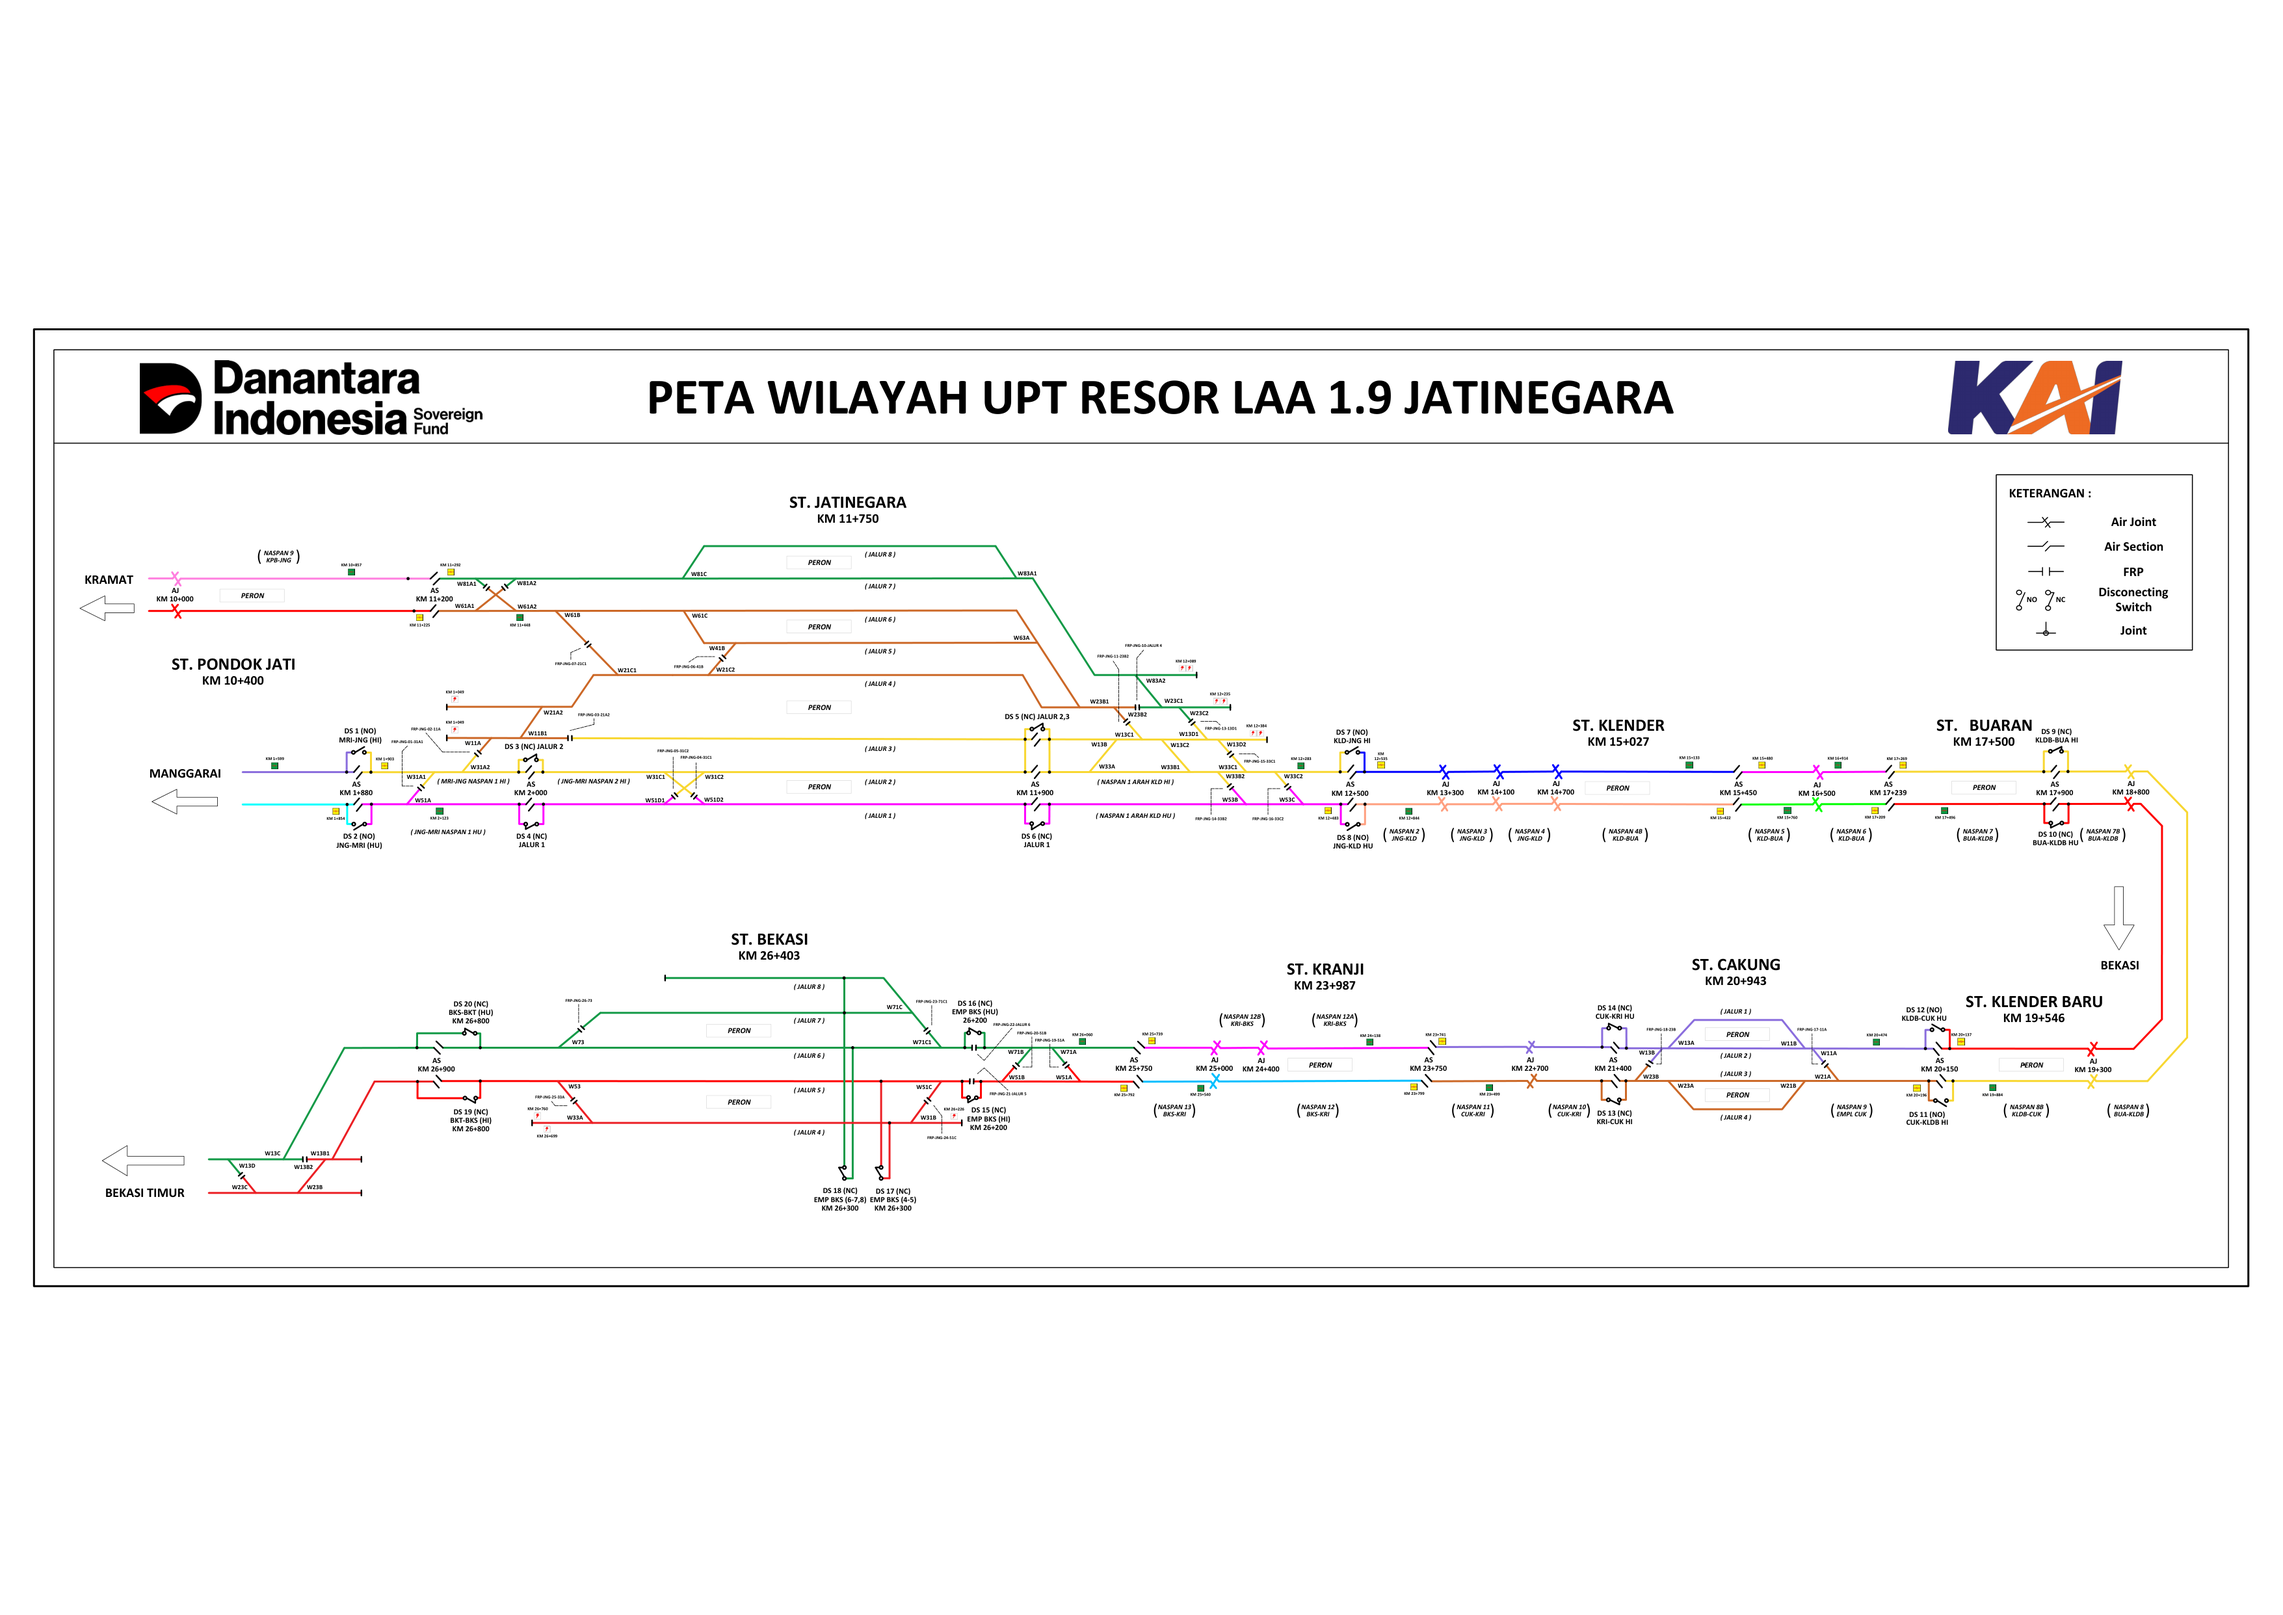
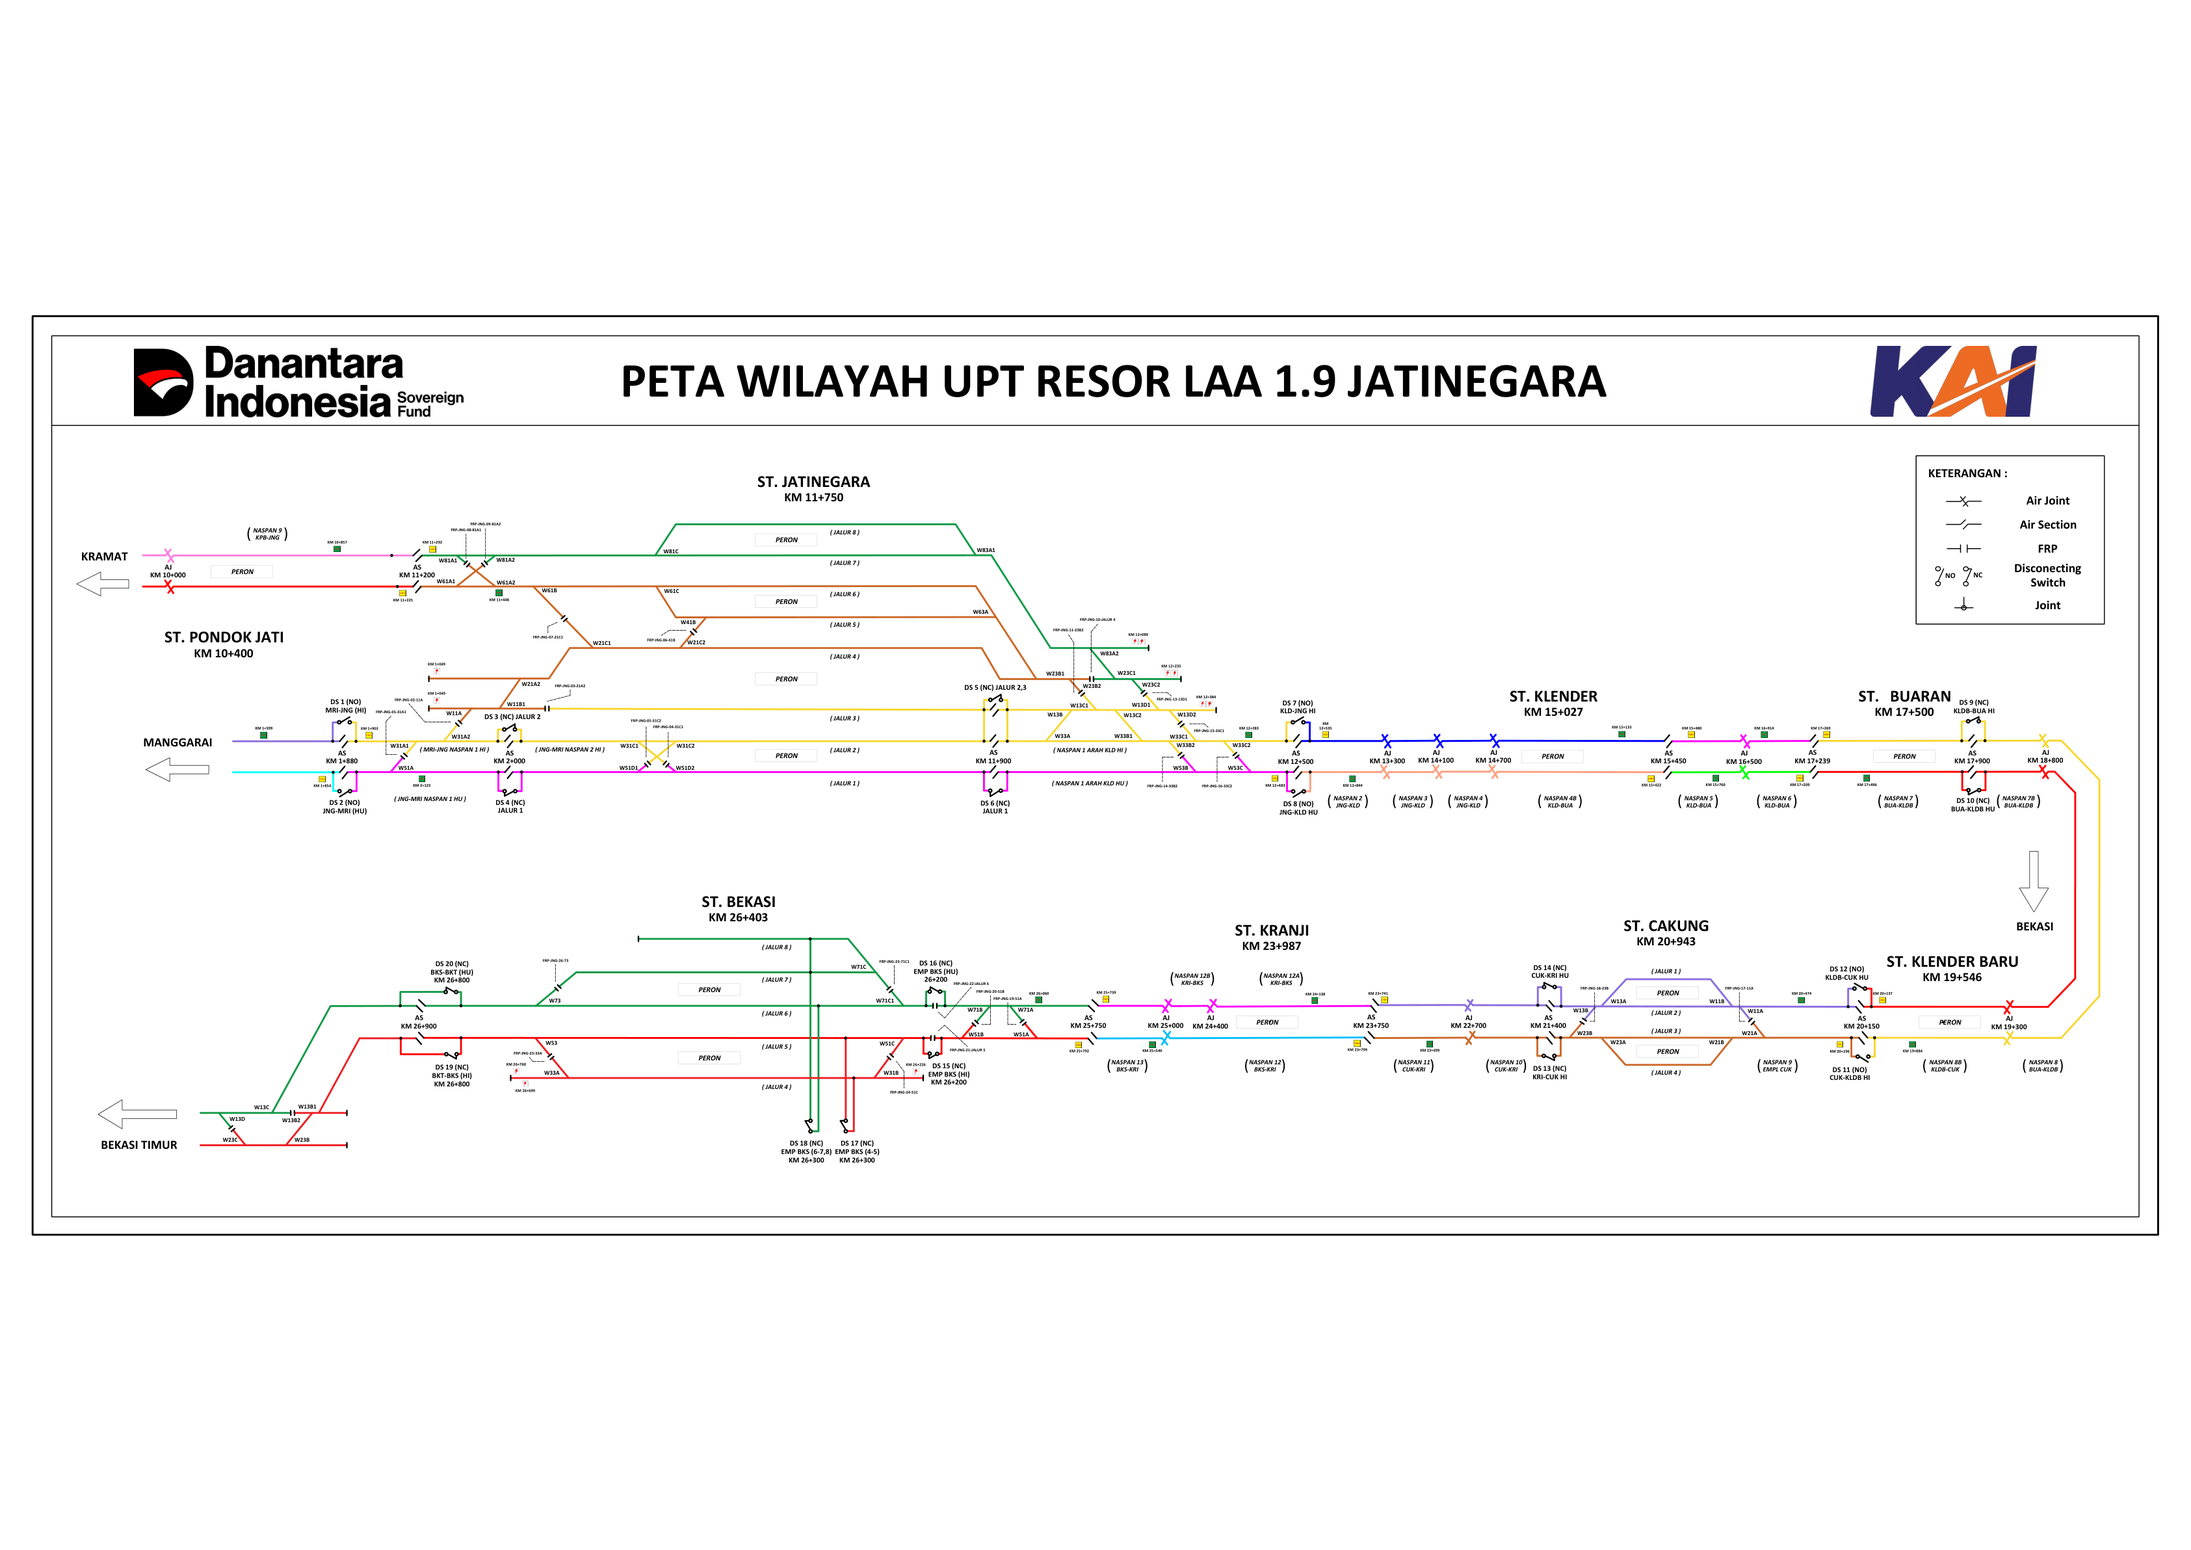
feat: incorporate AutoCAD revision adding FRP-JNG-08-81A1 & FRP-JNG-09-81A2 on W81A/W61A crossover and regenerated background map

diff --git a/frontend/src/components/SchematicViewer.jsx b/frontend/src/components/SchematicViewer.jsx
@@ -1308,6 +1308,8 @@ export default function SchematicViewer({
       d: 'M 654.3 370.4 L 668.2 381.6',
       color: '#139a47',
       isCrossing: true,
+      startDivider: { type: 'WESEL', label: 'Wesel W81A1', km: 'KM 11+292' },
+      endDivider: { type: 'FRP', label: '( Section Insulator (FRP-JNG-08-81A1) )', km: 'KM 11+350' },
     },
     {
       id: 'wesel_w81a2_713',
@@ -1318,6 +1320,8 @@ export default function SchematicViewer({
       d: 'M 713.7 370.4 L 699.5 381.7',
       color: '#139a47',
       isCrossing: true,
+      startDivider: { type: 'WESEL', label: 'Wesel W81A2', km: 'KM 11+448' },
+      endDivider: { type: 'FRP', label: '( Section Insulator (FRP-JNG-09-81A2) )', km: 'KM 11+350' },
     },
     {
       id: 'wesel_w61a2_672',
@@ -1328,6 +1332,8 @@ export default function SchematicViewer({
       d: 'M 672.4 384.9 L 713.7 417.8',
       color: '#cc6827',
       isCrossing: true,
+      startDivider: { type: 'FRP', label: '( Section Insulator (FRP-JNG-08-81A1) )', km: 'KM 11+350' },
+      endDivider: { type: 'WESEL', label: 'Wesel W61A2', km: 'KM 11+448' },
     },
     {
       id: 'wesel_w61a1_695',
@@ -1338,6 +1344,8 @@ export default function SchematicViewer({
       d: 'M 695.3 385.0 L 654.3 417.8',
       color: '#cc6827',
       isCrossing: true,
+      startDivider: { type: 'WESEL', label: 'Wesel W61A1', km: 'KM 11+292' },
+      endDivider: { type: 'FRP', label: '( Section Insulator (FRP-JNG-09-81A2) )', km: 'KM 11+350' },
     },
     {
       id: 'wesel_w81c_991',
@@ -2611,6 +2619,32 @@ export default function SchematicViewer({
       isCrossing: true,
       startDivider: { type: 'FRP', label: '( Section Insulator (FRP-JNG-07-21C1) )', km: 'KM 11+448' },
       endDivider: { type: 'WESEL', label: 'Wesel W21C1 Jatinegara', km: 'KM 11+448' },
+    },
+    {
+      id: 'frp_jng_08_81a1',
+      code: 'FRP-JNG-08-81A1',
+      title: '( Section Insulator (FRP-JNG-08-81A1) )',
+      km: 'KM 11+350',
+      category: 'SECTION INSULATOR (FRP)',
+      d: 'M 670.6 378.8 L 665.8 384.2 M 674.56 382.4 L 669.88 387.8',
+      hitD: 'M 670.6 378.8 L 665.8 384.2 M 674.56 382.4 L 669.88 387.8 M 668.20 381.50 L 672.22 385.10',
+      color: '#139a47',
+      isCrossing: true,
+      startDivider: { type: 'FRP', label: '( Section Insulator (FRP-JNG-08-81A1) )', km: 'KM 11+350' },
+      endDivider: { type: 'WESEL', label: 'Wesel W81A1 Jatinegara', km: 'KM 11+350' },
+    },
+    {
+      id: 'frp_jng_09_81a2',
+      code: 'FRP-JNG-09-81A2',
+      title: '( Section Insulator (FRP-JNG-09-81A2) )',
+      km: 'KM 11+350',
+      category: 'SECTION INSULATOR (FRP)',
+      d: 'M 692.92 382.16 L 697.48 387.68 M 697.12 378.68 L 701.68 384.32',
+      hitD: 'M 692.92 382.16 L 697.48 387.68 M 697.12 378.68 L 701.68 384.32 M 695.20 384.92 L 699.40 381.50',
+      color: '#139a47',
+      isCrossing: true,
+      startDivider: { type: 'FRP', label: '( Section Insulator (FRP-JNG-09-81A2) )', km: 'KM 11+350' },
+      endDivider: { type: 'WESEL', label: 'Wesel W81A2 Jatinegara', km: 'KM 11+350' },
     },
     {
       id: 'frp_jng_10_jalur_4',

diff --git a/frontend/src/components/WorkHistoryPanel.jsx b/frontend/src/components/WorkHistoryPanel.jsx
@@ -265,7 +265,7 @@ export function getLineColorInfo(targetCode = '', description = '') {
     if (code.includes('21') || code.includes('24') || code.includes('25')) {
       return { color: '#ff0000', label: 'Section Insulator FRP (Merah)', badgeClass: 'bg-red-50 text-red-800 border-red-300' };
     }
-    if (code.includes('10') || code.includes('11') || code.includes('19') || code.includes('20') || code.includes('22') || code.includes('23') || code.includes('26')) {
+    if (code.includes('08') || code.includes('09') || code.includes('10') || code.includes('11') || code.includes('19') || code.includes('20') || code.includes('22') || code.includes('23') || code.includes('26')) {
       return { color: '#139a47', label: 'Section Insulator FRP (Hijau)', badgeClass: 'bg-emerald-50 text-emerald-800 border-emerald-300' };
     }
     return { color: '#cc6827', label: 'Section Insulator FRP (Oranye/Kuning)', badgeClass: 'bg-amber-50 text-amber-800 border-amber-300' };
